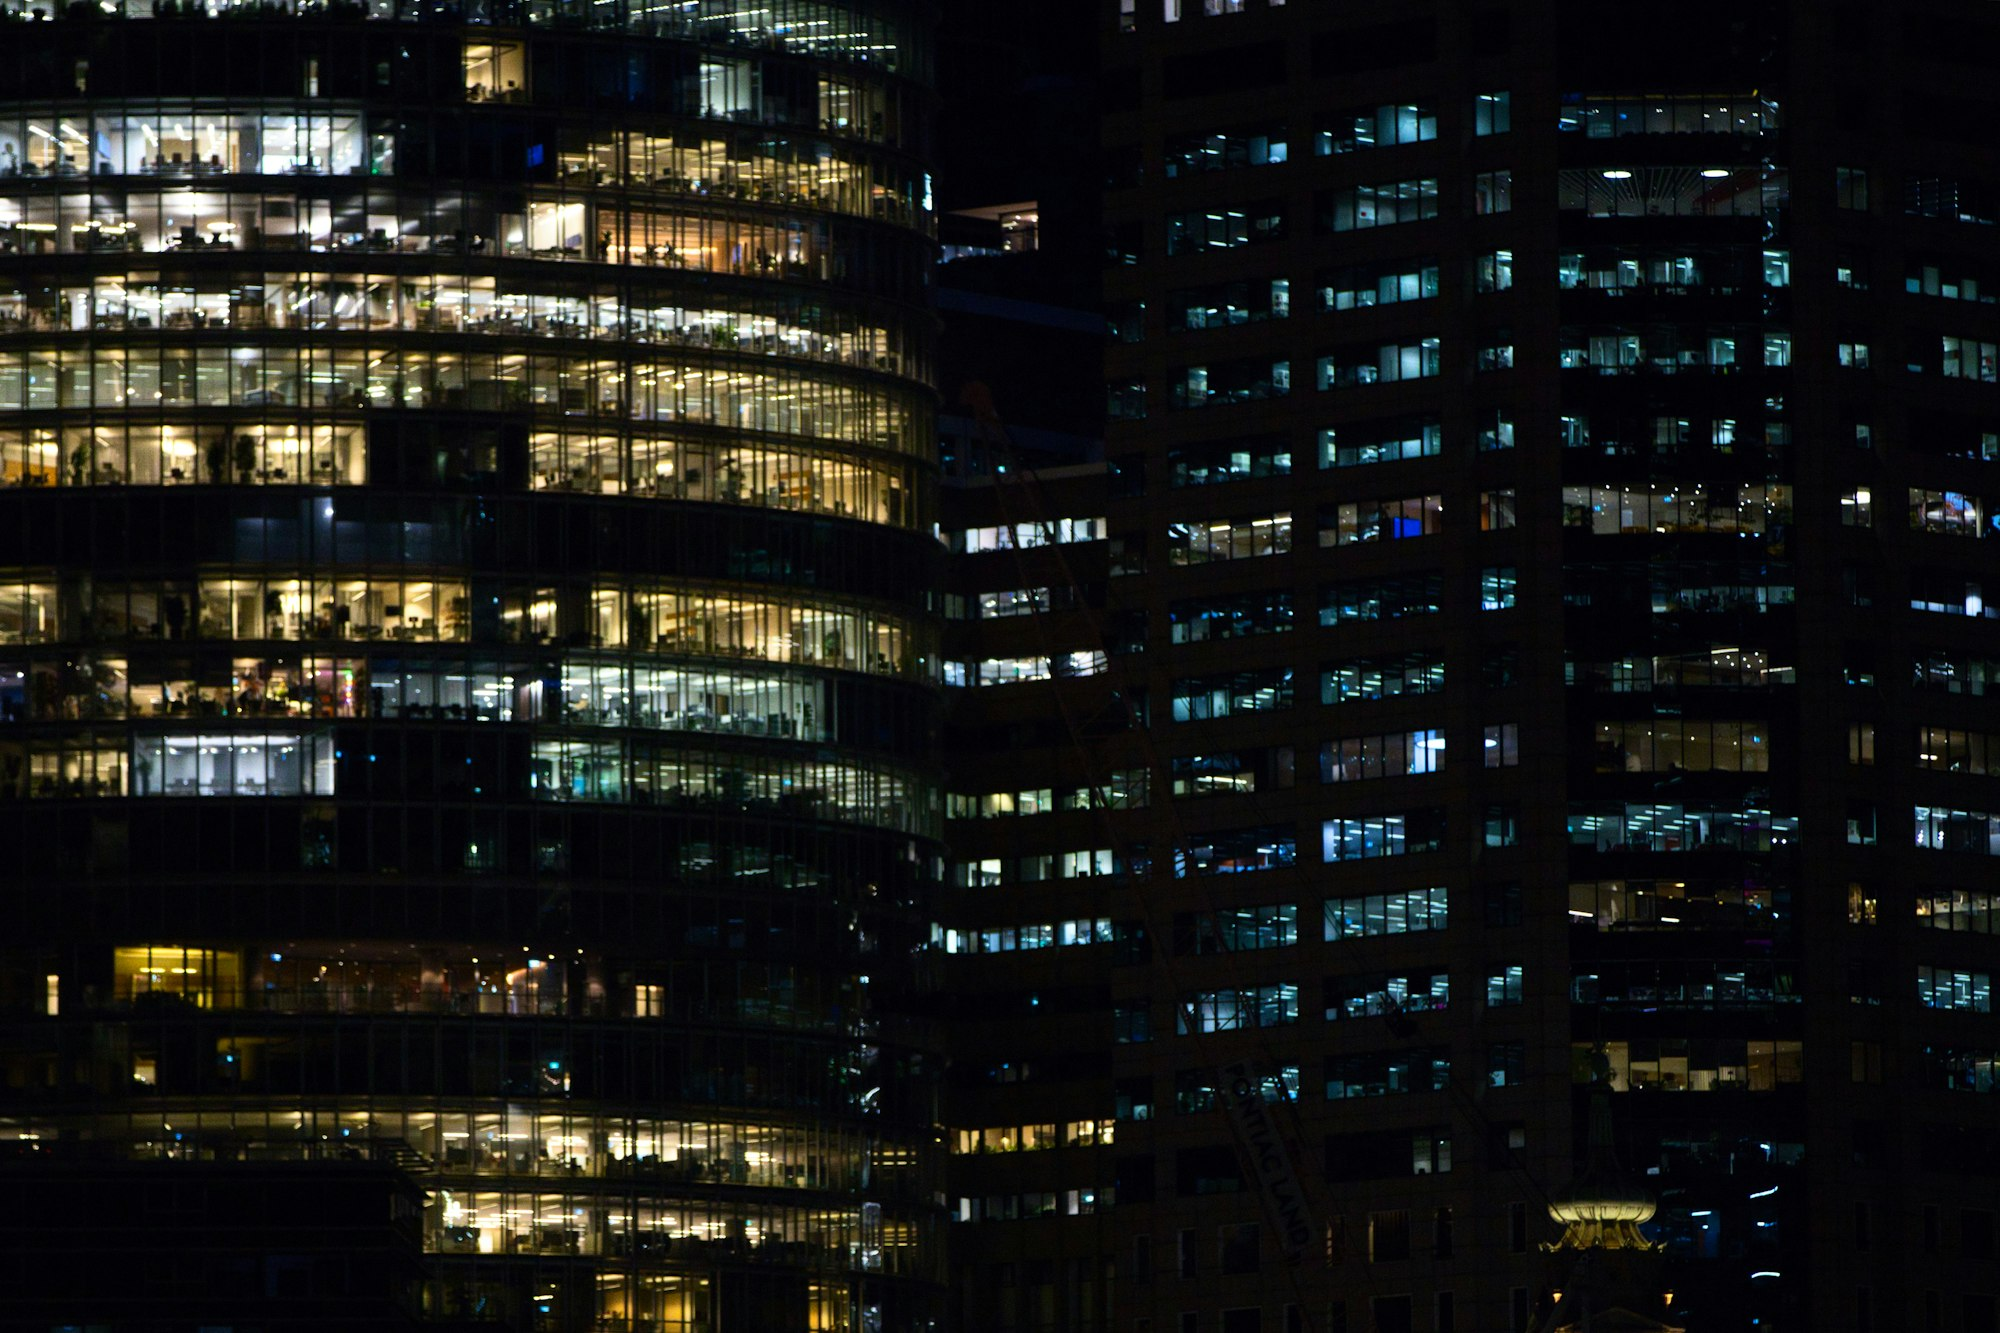
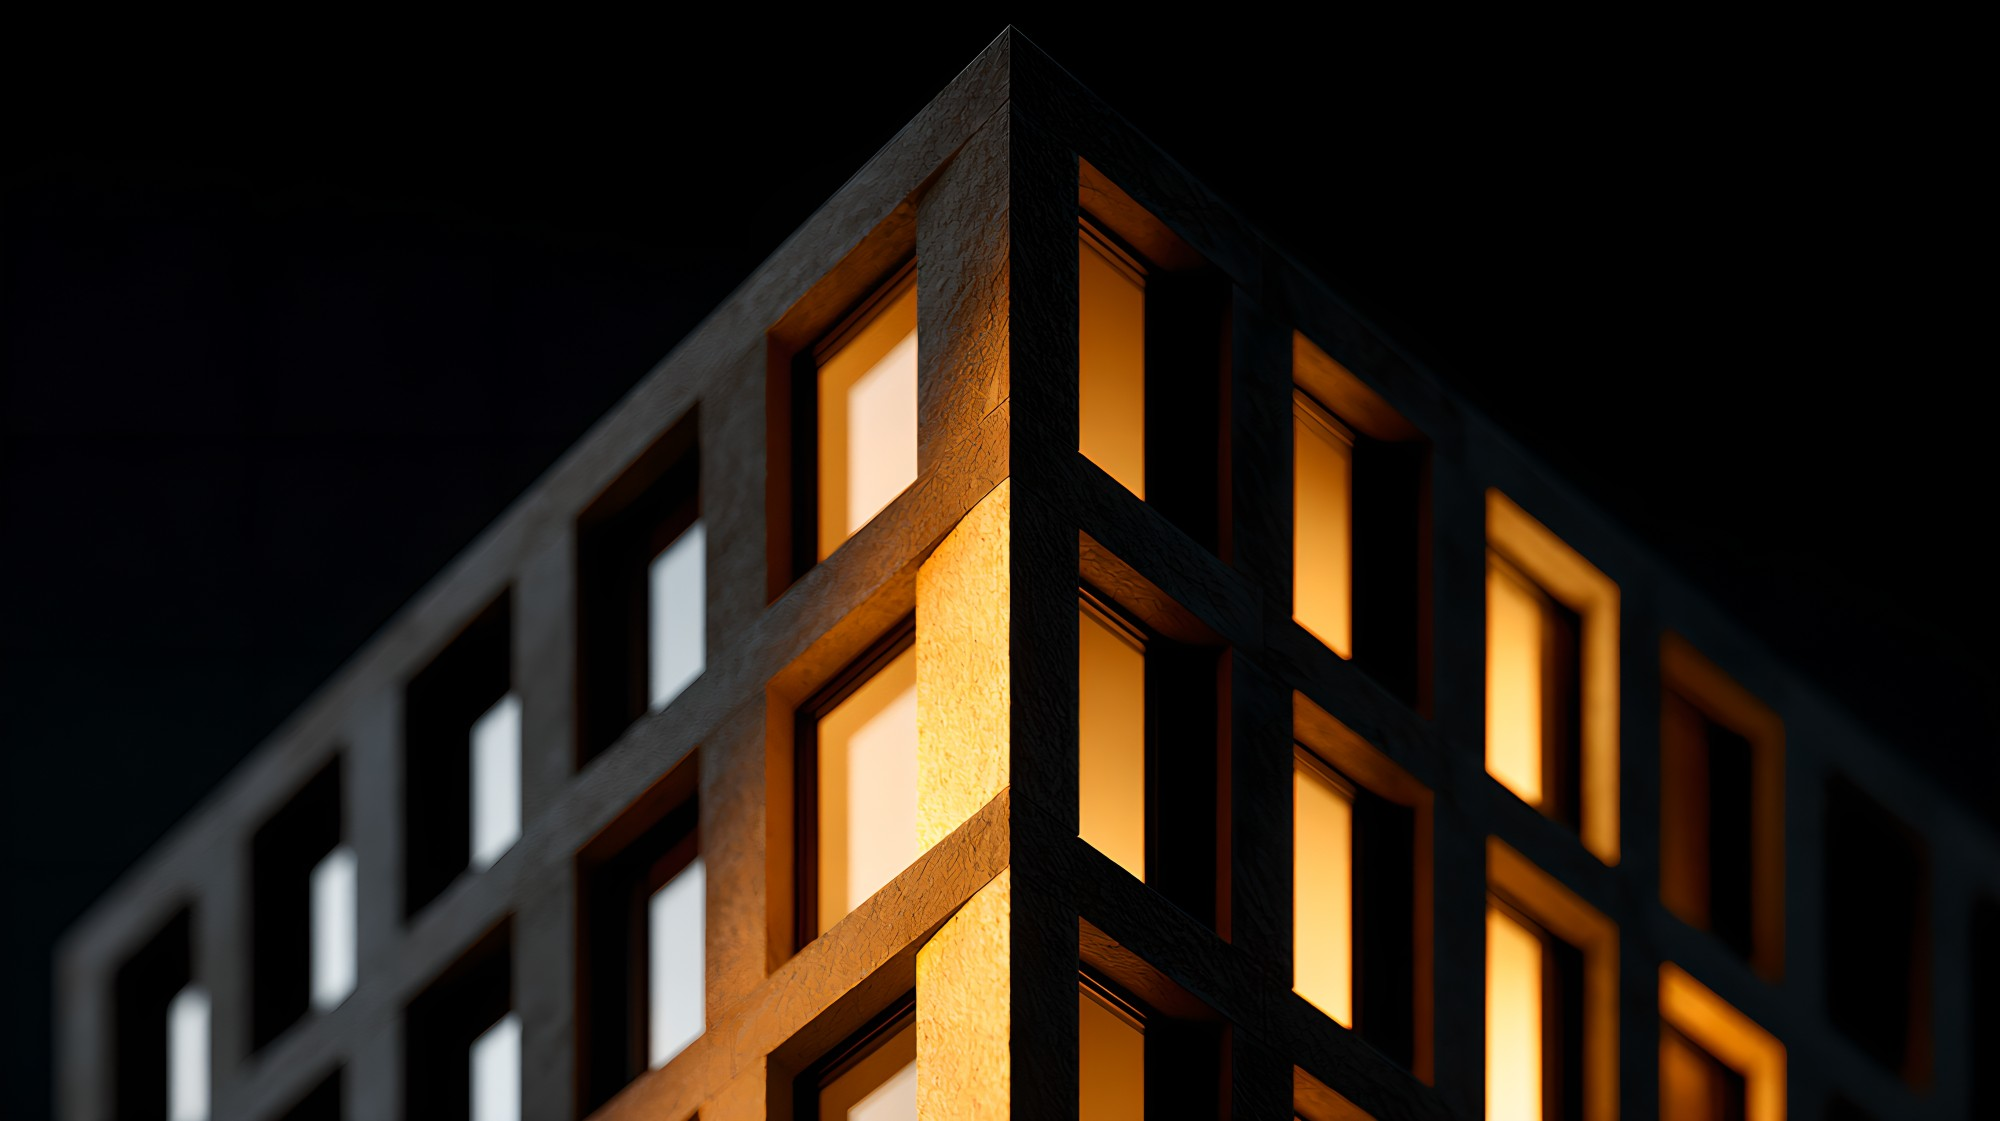
Fotos premium: hero com os três sócios, corredor, fachada e metodologia

diff --git a/index.html b/index.html
@@ -112,18 +112,18 @@ body::before{content:"";position:fixed;inset:0 0 auto;height:env(safe-area-inset
 .hero{min-height:max(660px,100svh);display:flex;flex-direction:column;padding:var(--pad);padding-top:96px}
 .hero-shapes{position:absolute;inset:0;z-index:0;pointer-events:none}
 .sh{position:absolute}
-.sh1{width:66vw;aspect-ratio:1;border-radius:50%;right:-24vw;top:-30vw;background:linear-gradient(210deg,rgba(201,168,76,.14),rgba(13,34,72,0) 38%),var(--navy-2)}
-.sh2{width:24vw;height:44%;right:9vw;bottom:-8%;border-radius:22px;background:var(--navy-2);opacity:.75}
-.sh3{width:60vw;aspect-ratio:1;right:-18vw;bottom:-34vw;border-radius:50%;background:radial-gradient(circle,rgba(201,168,76,.2),rgba(201,168,76,.06) 40%,rgba(201,168,76,0) 68%)}
-.hero-ph{position:absolute;left:0;top:0;bottom:0;width:45%;z-index:1;border-radius:0 clamp(90px,13vw,240px) 0 0}
-.hero-ph img{object-position:50% 22%}
-.hero-ph::before{content:"";position:absolute;inset:0;z-index:1;pointer-events:none;background:linear-gradient(to bottom,rgba(8,12,20,.55),rgba(8,12,20,0) 22%),linear-gradient(to top,rgba(11,28,59,.94) 0%,rgba(11,28,59,.62) 30%,rgba(11,28,59,0) 58%)}
+.sh1{width:66vw;aspect-ratio:1;border-radius:50%;left:-30vw;top:-34vw;background:linear-gradient(150deg,rgba(201,168,76,.14),rgba(13,34,72,0) 38%),var(--navy-2)}
+.sh2{width:24vw;height:44%;left:6vw;bottom:-8%;border-radius:22px;background:var(--navy-2);opacity:.75}
+.sh3{width:60vw;aspect-ratio:1;left:-20vw;bottom:-34vw;border-radius:50%;background:radial-gradient(circle,rgba(201,168,76,.2),rgba(201,168,76,.06) 40%,rgba(201,168,76,0) 68%)}
+.hero-ph{position:absolute;right:0;top:0;bottom:0;width:62%;z-index:1;border-radius:clamp(90px,13vw,240px) 0 0 0}
+.hero-ph img{object-position:50% 28%}
+.hero-ph::before{content:"";position:absolute;inset:0;z-index:1;pointer-events:none;background:linear-gradient(to bottom,rgba(8,12,20,.6),rgba(8,12,20,0) 20%),linear-gradient(to right,rgba(11,28,59,.85),rgba(11,28,59,0) 16%),linear-gradient(to top,rgba(11,28,59,.95) 0%,rgba(11,28,59,.6) 28%,rgba(11,28,59,0) 52%)}
 .hero-body{position:relative;z-index:2;flex:1;display:grid;grid-template-columns:repeat(12,minmax(0,1fr));grid-template-rows:auto 1fr;column-gap:24px;margin-top:clamp(36px,8vh,110px)}
-.hero-right{grid-column:7 / span 5;display:grid;gap:34px;justify-items:start}
+.hero-right{grid-column:1 / span 4;display:grid;gap:34px;justify-items:start}
 .hero-right::before{content:"";width:48px;height:1px;background:var(--gold)}
 .hero-statement{font-family:var(--display);font-size:clamp(20px,1.75vw,30px);line-height:1.28;letter-spacing:-.02em;max-width:24ch;text-wrap:balance}
 .hero-actions{display:flex;align-items:center;gap:12px;flex-wrap:wrap}
-.hero-meta{grid-column:7 / -1;align-self:end;display:flex;gap:clamp(28px,5vw,80px);padding-bottom:clamp(20px,3.5vh,44px);font-size:14px;color:var(--off-2)}
+.hero-meta{grid-column:1 / span 5;flex-direction:column;align-self:end;display:flex;gap:10px;padding-bottom:clamp(20px,3.5vh,44px);font-size:14px;color:var(--off-2)}
 .hero-meta p{display:flex;align-items:center;gap:12px}
 .hero-meta i{width:16px;height:1px;background:var(--gold)}
 .hero-h{position:relative;z-index:3;font-size:8.6vw;line-height:.93;letter-spacing:-.045em;margin-left:-.05em;margin-bottom:-.06em}
@@ -454,7 +454,8 @@ html.js [data-fade].in{opacity:1}
   .brand small{display:none}
   .menu-btn{display:inline-flex}
   .hero{display:grid;padding:0;min-height:0}
-  .hero-ph{position:relative;grid-area:1/1;width:100%;height:min(84svh,780px);min-height:520px;border-radius:0 0 clamp(70px,24vw,150px) 0}
+  .hero-ph{position:relative;grid-area:1/1;width:100%;height:max(520px,118vw);min-height:0;border-radius:0 0 0 clamp(70px,24vw,150px)}
+  .hero-ph img{object-position:50% 20%}
   .hero-ph::before{background:linear-gradient(to bottom,rgba(8,12,20,.55),rgba(8,12,20,0) 22%),linear-gradient(to top,rgba(11,28,59,.96) 0%,rgba(11,28,59,.72) 34%,rgba(11,28,59,0) 66%)}
   .hero-h{grid-area:1/1;align-self:end;font-size:13.6vw!important;line-height:.95;padding:0 var(--pad) 26px;margin:0}
   .hero-body{grid-area:2/1;display:flex;flex-direction:column;gap:32px;margin:0;padding:30px var(--pad) var(--pad)}
@@ -538,7 +539,7 @@ html.js [data-fade].in{opacity:1}
   <section class="sec navy tex hero" id="topo" aria-label="Apresentação">
     <div class="hero-shapes" aria-hidden="true"><span class="sh sh1"></span><span class="sh sh2"></span><span class="sh sh3"></span></div>
     <figure class="ph hero-ph">
-      <div class="ph-in"><img src="img/hero.jpg" alt="Profissional de terno claro, de perfil, diante de uma parede lisa" data-parallax fetchpriority="high"></div>
+      <div class="ph-in"><img src="img/hero.jpg" alt="Três profissionais em traje formal diante de uma parede com luzes douradas" data-parallax fetchpriority="high"></div>
     </figure>
     <div class="hero-body">
       <div class="hero-right">
@@ -757,7 +758,7 @@ html.js [data-fade].in{opacity:1}
 
   <!-- 04 Metodologia -->
   <section class="sec me" id="metodologia" aria-labelledby="me-h">
-    <div class="me-bg" aria-hidden="true"><img src="img/flute.jpg" alt="" loading="lazy"></div>
+    <div class="me-bg" aria-hidden="true"><img src="img/metodologia.jpg" alt="" loading="lazy"></div>
     <div class="me-panel tex">
       <div class="me-head">
         <p class="tag"><b>04</b>Metodologia</p>
